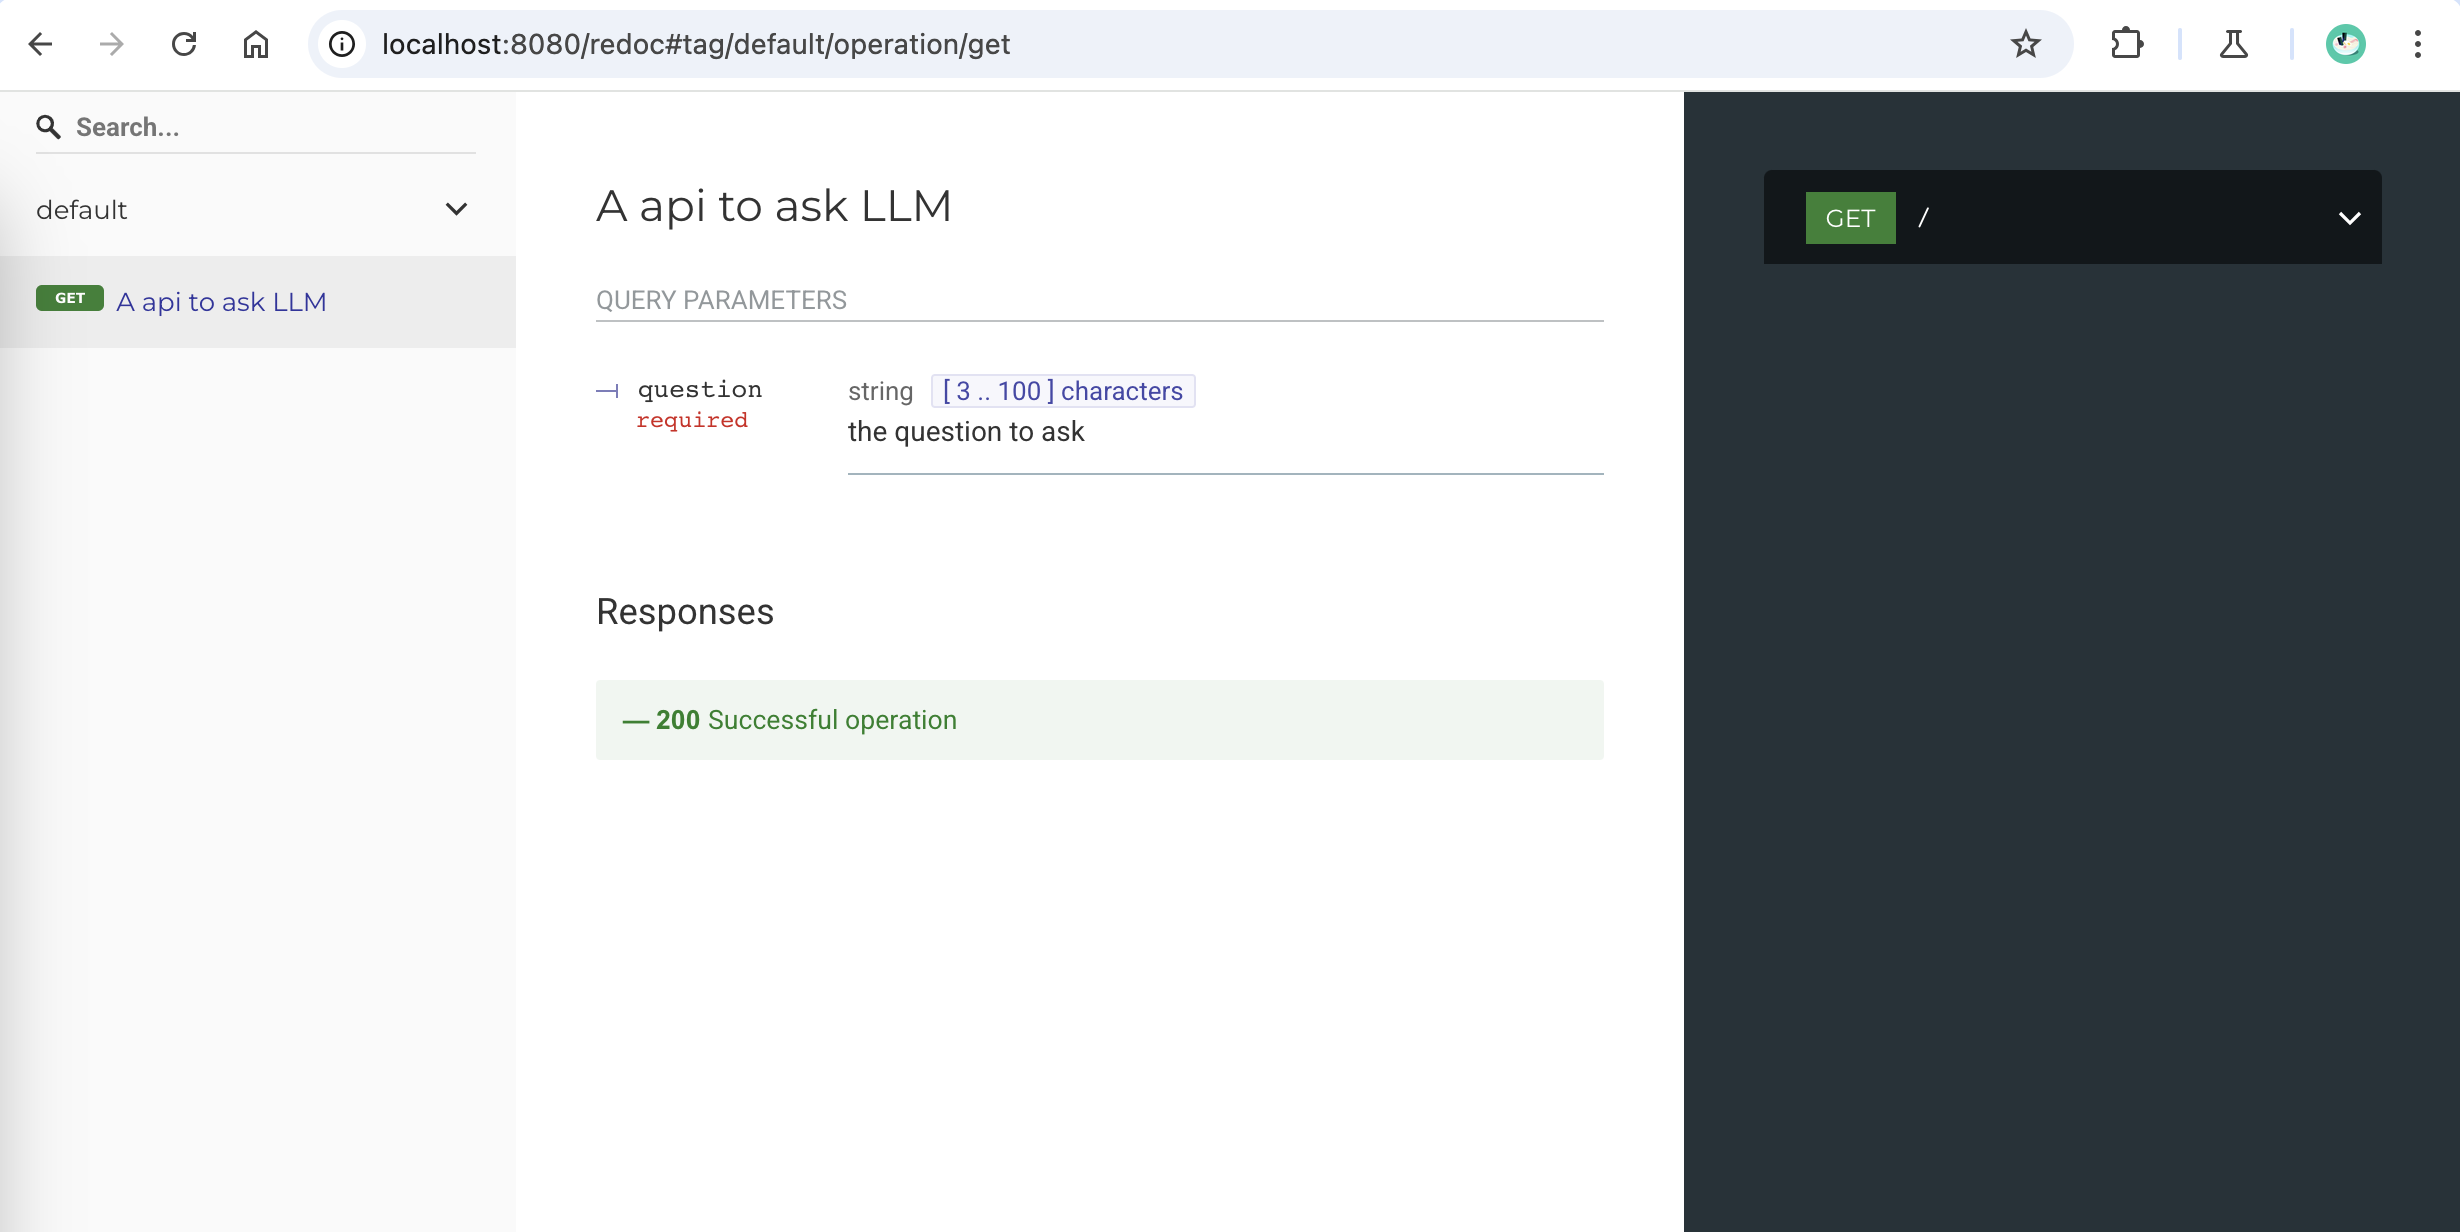
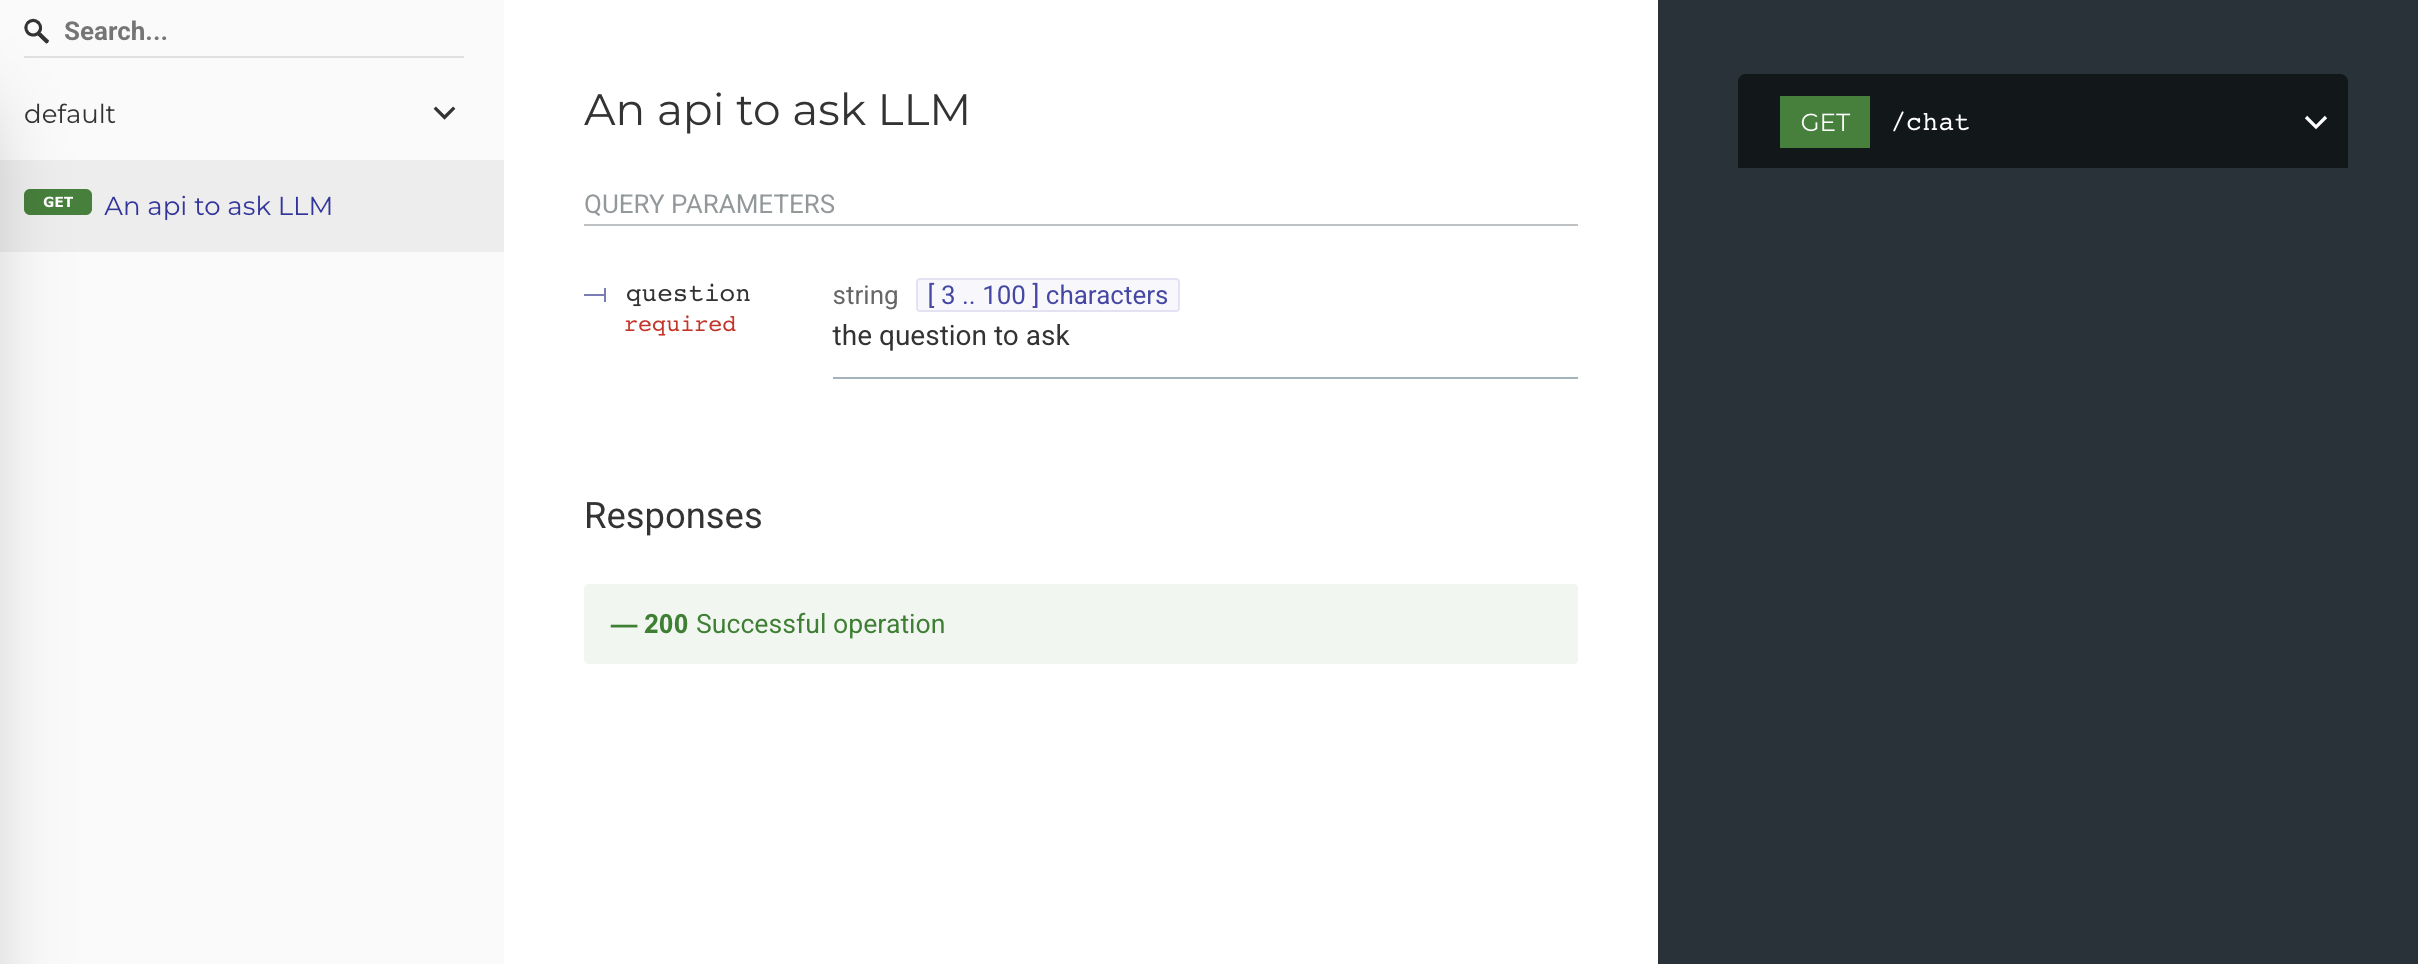
Update docs

diff --git a/theme/components/code-demo/index.tsx b/theme/components/code-demo/index.tsx
@@ -39,7 +39,7 @@ const CodeDemo: FC<CodeDemoProps> = ({
             {code}
           </SyntaxHighlighter>
         ) : img ? (
-          <img src={img} alt="Code demo" style={{ maxWidth: '100%', height: 'auto' }} />
+          <img src={img} className='medium-zoom-image' />
         ) : null}
       </div>
     </div>

diff --git a/docs/guide/getting-started/introduction.md b/docs/guide/getting-started/introduction.md
@@ -35,10 +35,9 @@ AIScript isn't just a language—it's a complete web development solution:
 
 ```javascript
 $ export OPENAI_API_KEY=<your-openai-api-key>
-
 $ cat web.ai
 get / {
-    """A api to ask LLM"""
+    """An api to ask LLM"""
 
     query {
         """the question to ask"""
@@ -51,7 +50,6 @@ get / {
         let answer = prompt question;
         return answer;
     }
-
     // use query.name or query["name"] to access query parameter
     let answer = ask(query.question);
     return { answer };
